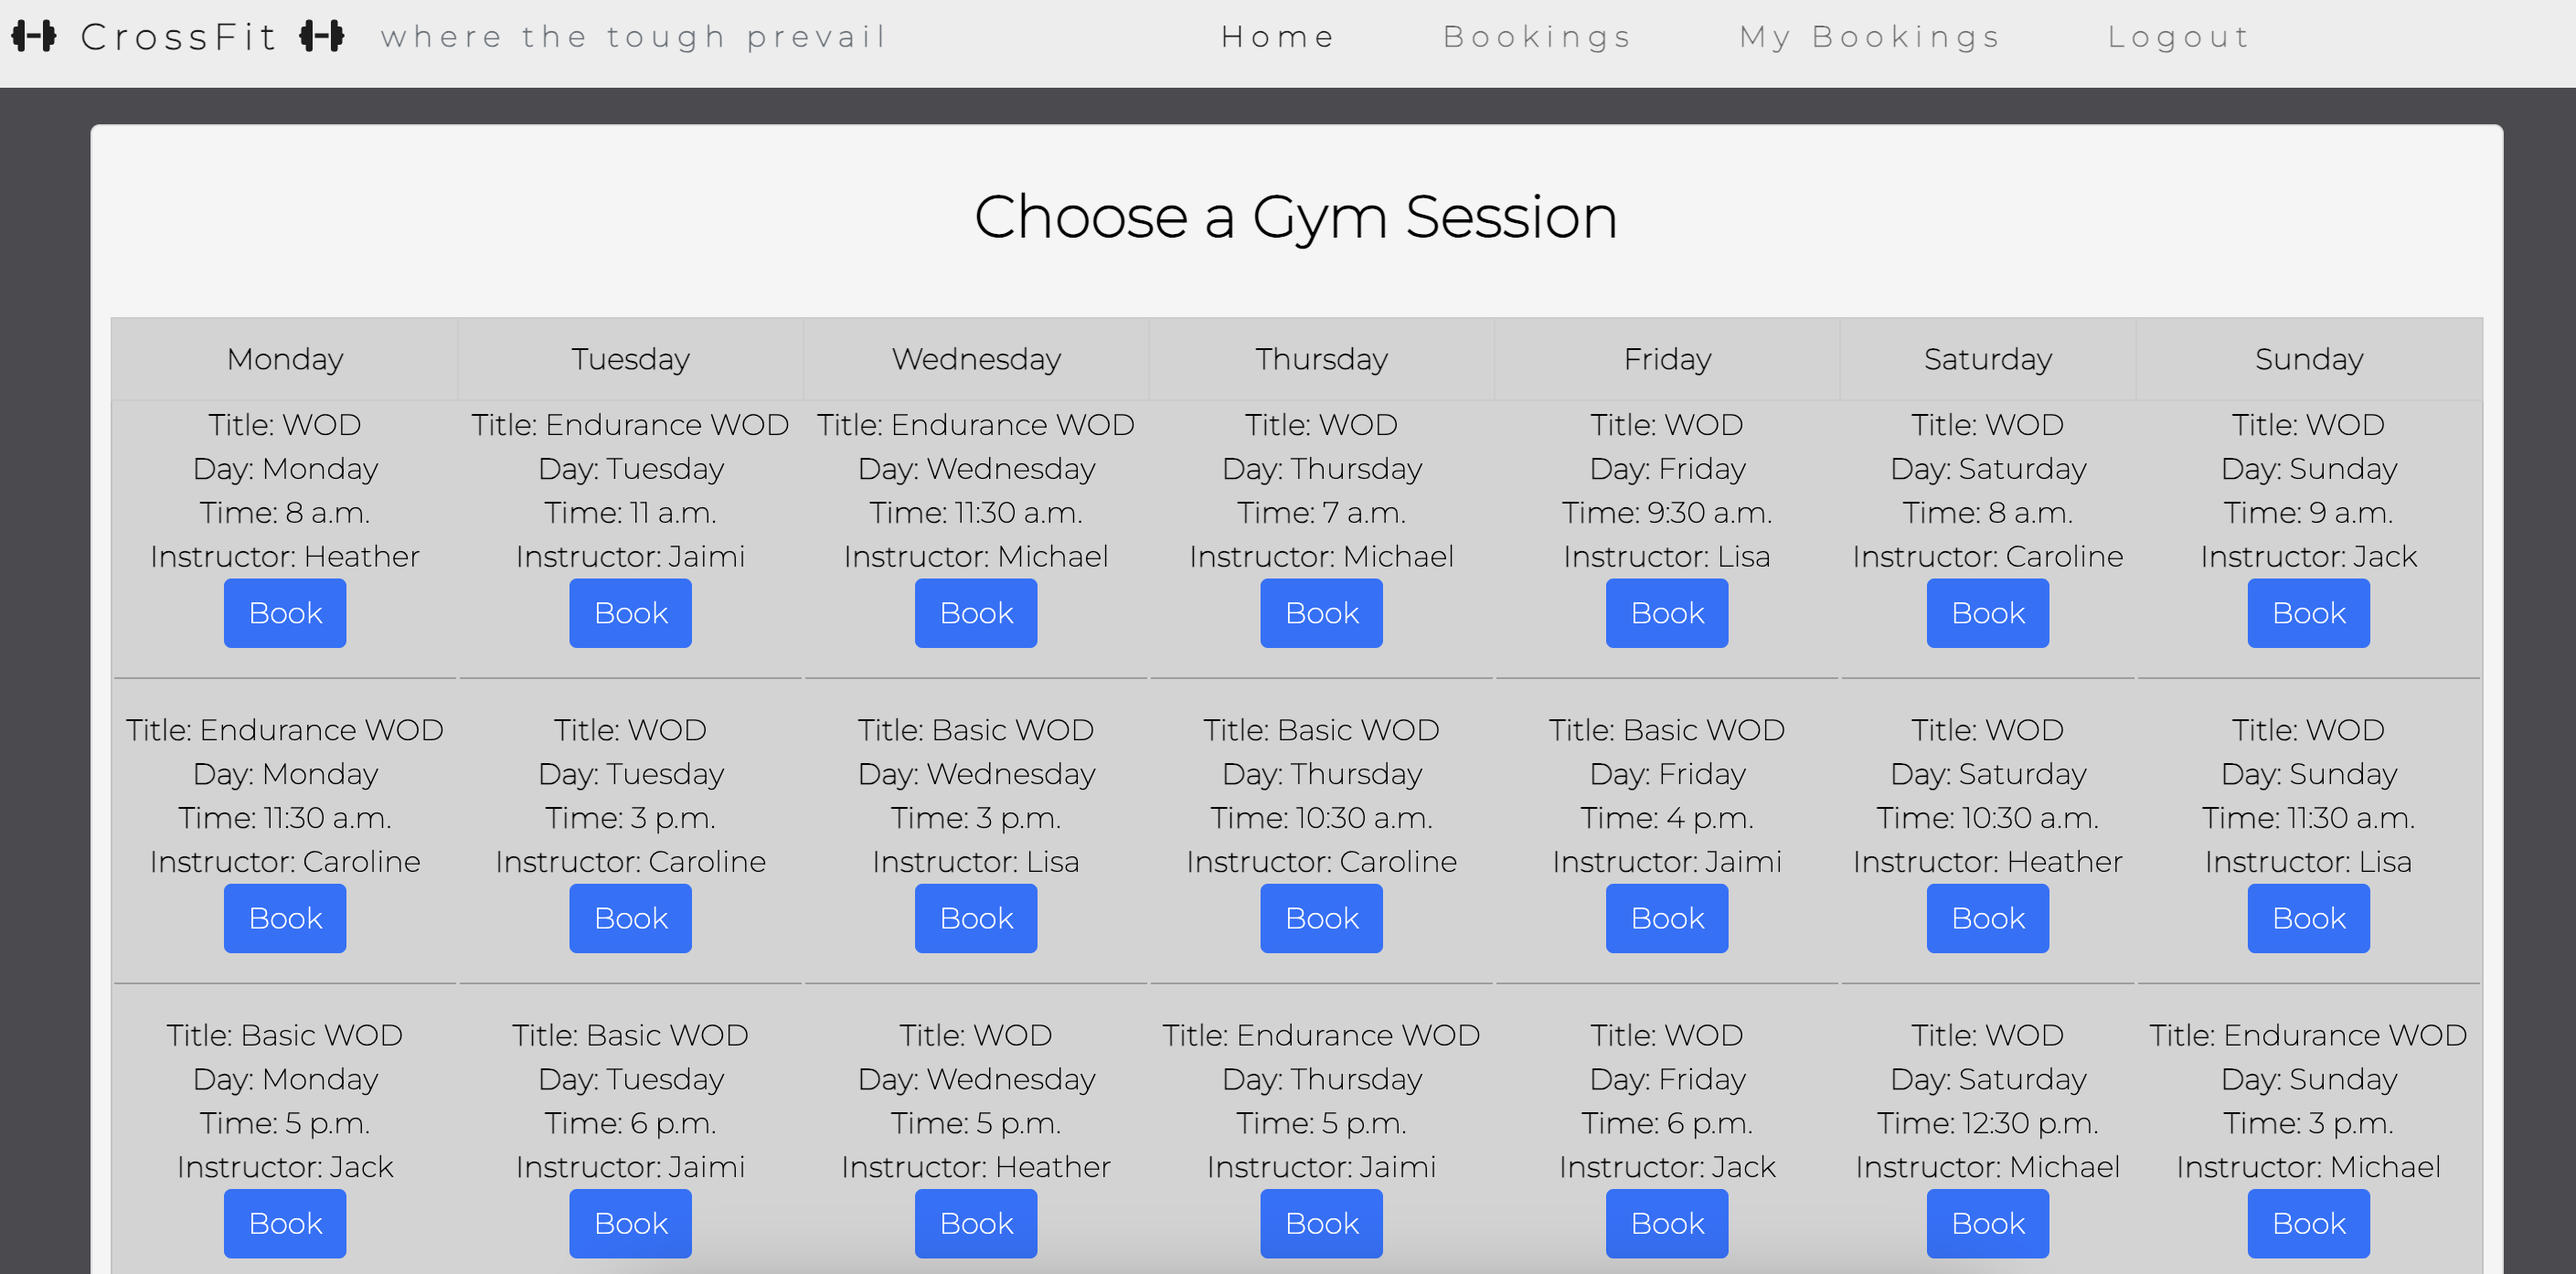
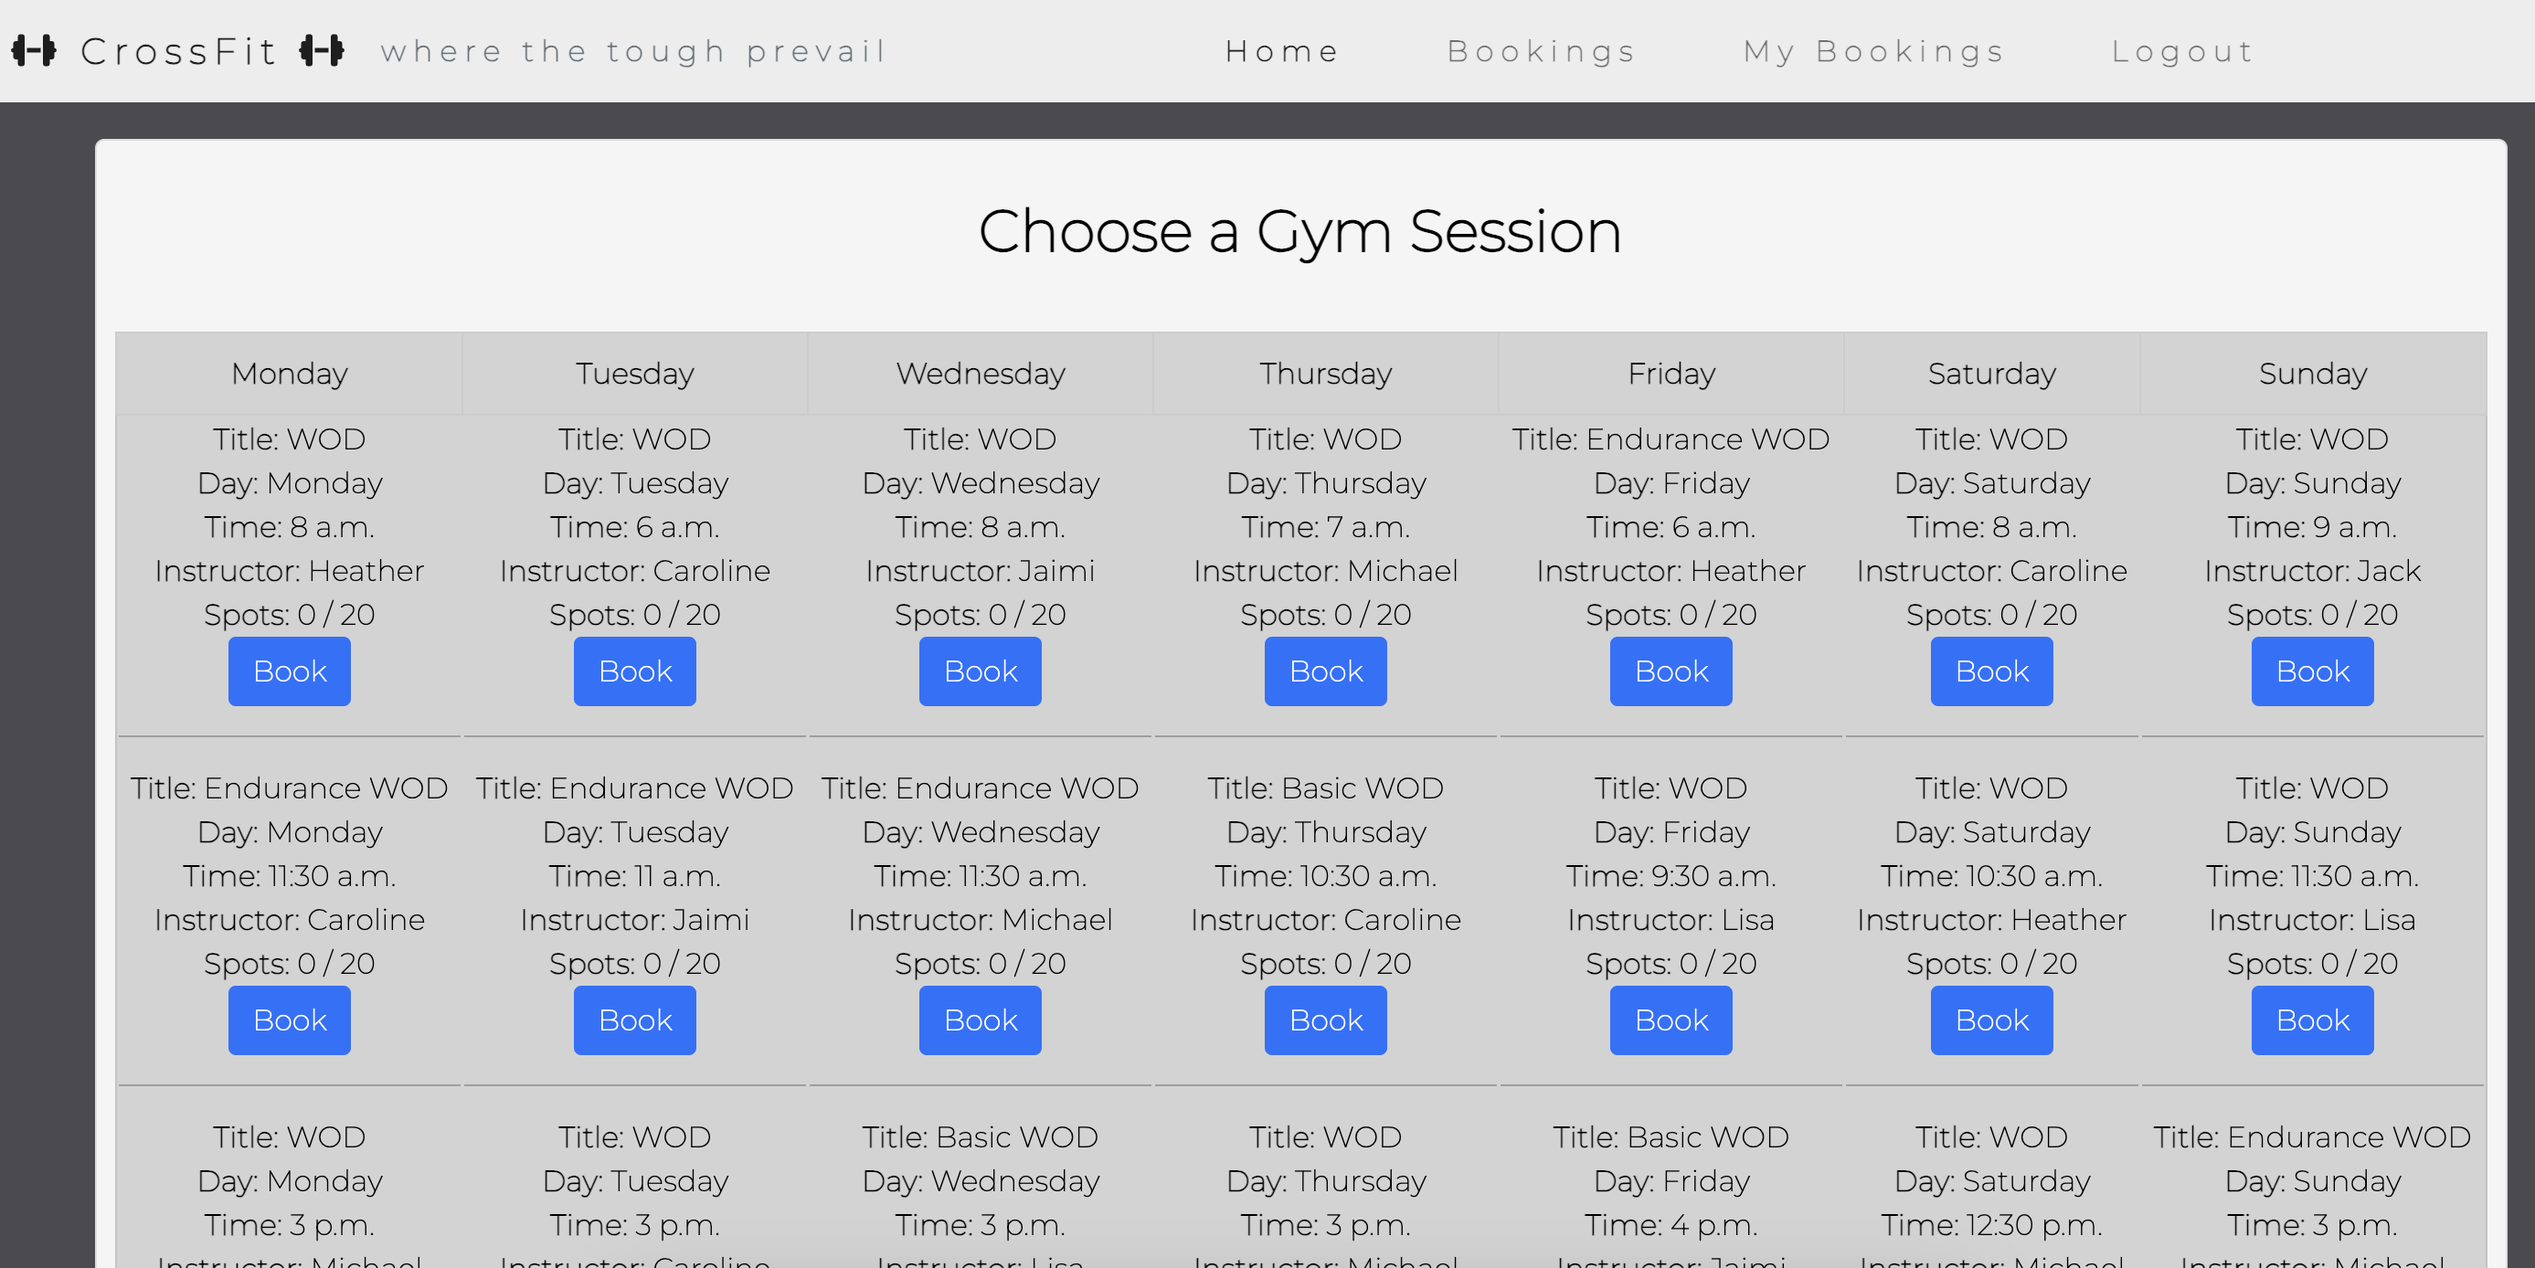
Change readme - add parts

Changed region(s): [[0.0, 0.0, 1.0, 1.0], [0.372, 0.1549, 0.651, 0.2169]]

diff --git a/templates/booking.html b/templates/booking.html
@@ -27,7 +27,7 @@
             <strong>Day:</strong> {{ session.day }}<br />
             <strong>Time:</strong> {{ session.time }}<br />
             <strong>Instructor:</strong> {{ session.instructor_name }}<br />
-            <strong>Available Spots:</strong> {{  session.booked_spots }} / {{ session.available_spots }}<br />
+            <strong>Spots:</strong> {{  session.booked_spots }} / {{ session.available_spots }}<br />
             <form method="POST" action="{% url 'book_session' session.id %}">
               {% csrf_token %}
               <button type="submit" class="btn btn-primary">
@@ -48,7 +48,7 @@
             <strong>Day:</strong> {{ session.day }}<br />
             <strong>Time:</strong> {{ session.time }}<br />
             <strong>Instructor:</strong> {{ session.instructor_name }}<br />
-            <strong>Available Spots:</strong> {{  session.booked_spots }} / {{ session.available_spots }}<br />            <form method="POST" action="{% url 'book_session' session.id %}">
+            <strong>Spots:</strong> {{  session.booked_spots }} / {{ session.available_spots }}<br />            <form method="POST" action="{% url 'book_session' session.id %}">
               {% csrf_token %}
               <button type="submit" class="btn btn-primary">
                 Book 
@@ -67,7 +67,7 @@
             <strong>Day:</strong> {{ session.day }}<br />
             <strong>Time:</strong> {{ session.time }}<br />
             <strong>Instructor:</strong> {{ session.instructor_name }}<br />
-            <strong>Available Spots:</strong> {{  session.booked_spots }} / {{ session.available_spots }}<br />            <form method="POST" action="{% url 'book_session' session.id %}">
+            <strong>Spots:</strong> {{  session.booked_spots }} / {{ session.available_spots }}<br />            <form method="POST" action="{% url 'book_session' session.id %}">
               {% csrf_token %}
               <button type="submit" class="btn btn-primary">
                 Book 
@@ -86,7 +86,7 @@
             <strong>Day:</strong> {{ session.day }}<br />
             <strong>Time:</strong> {{ session.time }}<br />
             <strong>Instructor:</strong> {{ session.instructor_name }}<br />
-            <strong>Available Spots:</strong> {{  session.booked_spots }} / {{ session.available_spots }}<br />            <form method="POST" action="{% url 'book_session' session.id %}">
+            <strong>Spots:</strong> {{  session.booked_spots }} / {{ session.available_spots }}<br />            <form method="POST" action="{% url 'book_session' session.id %}">
               {% csrf_token %}
               <button type="submit" class="btn btn-primary">
                 Book 
@@ -105,7 +105,7 @@
             <strong>Day:</strong> {{ session.day }}<br />
             <strong>Time:</strong> {{ session.time }}<br />
             <strong>Instructor:</strong> {{ session.instructor_name }}<br />
-            <strong>Available Spots:</strong> {{  session.booked_spots }} / {{ session.available_spots }}<br />            <form method="POST" action="{% url 'book_session' session.id %}">
+            <strong>Spots:</strong> {{  session.booked_spots }} / {{ session.available_spots }}<br />            <form method="POST" action="{% url 'book_session' session.id %}">
               {% csrf_token %}
               <button type="submit" class="btn btn-primary">
                 Book 
@@ -124,7 +124,7 @@
             <strong>Day:</strong> {{ session.day }}<br />
             <strong>Time:</strong> {{ session.time }}<br />
             <strong>Instructor:</strong> {{ session.instructor_name }}<br />
-            <strong>Available Spots:</strong> {{  session.booked_spots }} / {{ session.available_spots }}<br />            <form method="POST" action="{% url 'book_session' session.id %}">
+            <strong>Spots:</strong> {{  session.booked_spots }} / {{ session.available_spots }}<br />            <form method="POST" action="{% url 'book_session' session.id %}">
               {% csrf_token %}
               <button type="submit" class="btn btn-primary">
                 Book 
@@ -143,7 +143,7 @@
             <strong>Day:</strong> {{ session.day }}<br />
             <strong>Time:</strong> {{ session.time }}<br />
             <strong>Instructor:</strong> {{ session.instructor_name }}<br />
-            <strong>Available Spots:</strong> {{  session.booked_spots }} / {{ session.available_spots }}<br />            <form method="POST" action="{% url 'book_session' session.id %}">
+            <strong>Spots:</strong> {{  session.booked_spots }} / {{ session.available_spots }}<br />            <form method="POST" action="{% url 'book_session' session.id %}">
               {% csrf_token %}
               <button type="submit" class="btn btn-primary">
                 Book 

diff --git a/README.md b/README.md
@@ -105,7 +105,7 @@ Login page: A username and password are required to log in for existing users. O
 
 Logout page: Logging out of the account is done through the menu, after which the user is redirected to the logout page where they must confirm their desire to log out of the account. After a successful logout, the user is returned to the home page.
 
-Bookings page: The page is only available to authenticated users and displays the classes/sessions offered. It is displayed in a calendar format and each day offers four workout sessions/classes to choose from. For each sessions a title of the workout is given, as well as the day, time, and instructor. A user cannot access this page unless they are registered and logged in.
+Bookings page: The page is only available to authenticated users and displays the classes/sessions offered. It is displayed in a calendar format and each day offers four workout sessions/classes to choose from. For each sessions a title of the workout is given, as well as the day, time, instructor, and spots available out of 20. A user cannot access this page unless they are registered and logged in.
 
 My Bookings page: Only authenticated users have access to this page. On this page displays all the user's bookings. It provides the user with information for each session booked: title, day, time, & instructor. There's an option to delete each booking. When clicked, the user is brought to a new page in which the user needs to confirm if they want to delete the booking or can choose to return to My Bookings page. After deleting, the user is returned to the My Bookings page. The user is informed if they have no bookings too.
 
@@ -166,6 +166,9 @@ Delete Booking Page - Where a user can delete a booking:
 No Bookings - Where a user is informed if they currently have no bookings:
 ![no bookings](./static/assets/features/no-bookings-page.png)
 
+Booking Full - No more available spots for booking a specific workout session
+![booking full](./static/assets/features/booking-full.png)
+
 Footer - Information that it was created by me plus appropriate links:
 ![footer](./static/assets/features/footer.png)
 
@@ -186,7 +189,6 @@ The site has been designed to be responsive and adapted for use on both desktop 
 # Future Features
 
 * Page with information about the instructors
-* Ability to have 10 attendee max for each session and inform the user that the session is full
 * Create a user profile which the user can view 
 
 # Technology Used:
@@ -223,6 +225,7 @@ The site has been designed to be responsive and adapted for use on both desktop 
 * [Chrome Developer Tools](https://developer.chrome.com/docs/devtools/open/): Was used to debug the website
 * [W3C Validator](https://validator.w3.org/): Was used to validate HTML5 code for the website
 * [W3C CSS validator](https://jigsaw.w3.org/css-validator/): Was used to validate CSS code for the website
+* [Pep8 Validator](https://pep8ci.herokuapp.com/): Was used to validate python code for the website
 * [Github Projects](https://github.com/): Kanban board was used to track the progress of the project in general and of every application in the project
 * [Wireframes](https://balsamiq.com/learn/articles/what-are-wireframes/): Was used to created the outline for my project
 
